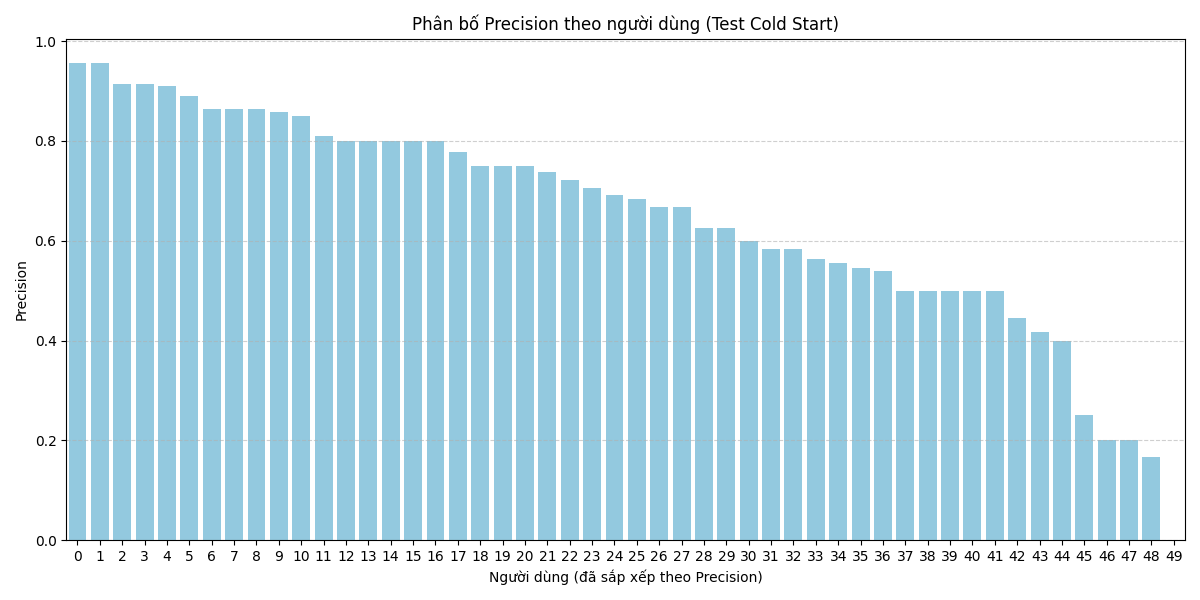
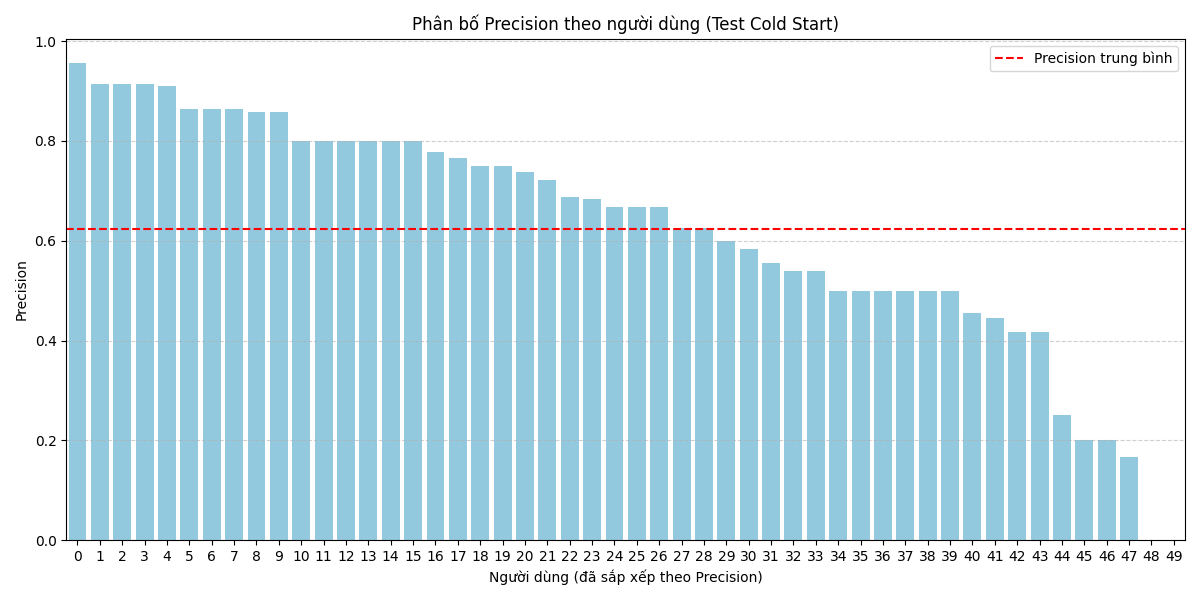
Cap nhat lan cuoi

diff --git a/Test_Cold.py b/Test_Cold.py
@@ -2,11 +2,11 @@ import pandas as pd
 import numpy as np
 import pickle
 from lightfm import LightFM
-from scipy.sparse import load_npz
+from scipy.sparse import load_npz, csr_matrix
 import matplotlib.pyplot as plt
 import seaborn as sns
 
-# ==== Load mô hình và dữ liệu ====
+# ==== Load mô hình và dữ liệu đã huấn luyện ====
 model = pickle.load(open("MODEL/lightfm_model.pkl", "rb"))
 dataset = pickle.load(open("MODEL/lightfm_dataset.pkl", "rb"))
 user_features = load_npz("MODEL/user_features_matrix.npz")
@@ -14,8 +14,9 @@ item_features = load_npz("MODEL/item_features_matrix.npz")
 
 test_df = pd.read_csv("Chia_Data/data_test_cold.csv")
 
-# ==== Tiền xử lý ====
+# ==== Tiền xử lý dữ liệu test ====
 def age_group(age):
+    # Nhóm tuổi thành các mốc
     if age <= 25: return "18-25"
     elif age <= 35: return "26-35"
     elif age <= 45: return "36-45"
@@ -25,33 +26,46 @@ def age_group(age):
 test_df["Age_Group"] = test_df["Age"].apply(age_group)
 test_df.rename(columns={"Customer_ID": "user_id_raw", "Item_Purchased": "item_id_raw"}, inplace=True)
 
-# ==== Mapping từ dataset ====
-user_id_map, _, item_id_map, _ = dataset.mapping()
-inner_to_item_raw = {v: k for k, v in item_id_map.items()}
+# ==== Mapping từ dataset để ánh xạ index nội bộ ====
+_, user_feat_map, item_id_map, _ = dataset.mapping()
+inner_to_item_raw = {v: k for k, v in item_id_map.items()}  # mapping ngược từ index về item raw ID
 
-# ==== Tính precision và lưu kết quả ====
+# ==== Tạo vector đặc trưng người dùng tạm thời cho cold user ====
+def build_temp_user_vector(age, gender):
+    age_grp = age_group(age)
+    features = [f"Gender={gender}", f"Age_Group={age_grp}"]
+    feature_index_map = user_feat_map
+    indices = [feature_index_map[f] for f in features if f in feature_index_map]
+    values = [1.0] * len(indices)
+    return csr_matrix((values, ([0]*len(indices), indices)), shape=(1, user_features.shape[1]))
+
+# ==== Đánh giá precision trên từng cold user ====
 results = []
 
+item_id_to_index = {v: k for k, v in item_id_map.items()}  # mapping ngược cho item
+
 for user_raw_id in test_df["user_id_raw"].unique():
-    if user_raw_id not in user_id_map:
-        continue
+    user_df = test_df[test_df["user_id_raw"] == user_raw_id]
 
-    uid = user_id_map[user_raw_id]
+    # Tạo vector đặc trưng người dùng cold
+    age = user_df["Age"].iloc[0]
+    gender = user_df["Gender"].iloc[0]
+    user_vec = build_temp_user_vector(age, gender)
 
-    # Các sản phẩm đã mua
-    true_items_raw = test_df[test_df["user_id_raw"] == user_raw_id]["item_id_raw"].unique()
+    # Danh sách item thực tế người đó đã mua
+    true_items_raw = user_df["item_id_raw"].unique()
     true_items_inner = [item_id_map[i] for i in true_items_raw if i in item_id_map]
     if not true_items_inner:
         continue
 
-    # Dự đoán tất cả item
-    scores = model.predict(uid, np.arange(len(item_id_map)), user_features=user_features, item_features=item_features)
+    # Dự đoán điểm cho toàn bộ item
+    scores = model.predict(0, np.arange(len(item_id_map)), user_features=user_vec, item_features=item_features)
 
-    # Top-N sản phẩm gợi ý theo số sản phẩm thực tế
+    # Chọn top-N item có điểm cao nhất, với N = số item thực tế
     top_items_inner = np.argsort(-scores)[:len(true_items_inner)]
     top_items_raw = [inner_to_item_raw[i] for i in top_items_inner]
 
-    # So sánh
+    # So sánh và tính precision
     correct_items = set(top_items_raw) & set(true_items_raw)
     num_correct = len(correct_items)
     precision = num_correct / len(true_items_inner)
@@ -67,23 +81,24 @@ for user_raw_id in test_df["user_id_raw"].unique():
         "SP Đúng": ", ".join(correct_items)
     })
 
-# ==== Xuất ra CSV đẹp ====
+# ==== Xuất kết quả thành CSV ====
 results_df = pd.DataFrame(results)
 results_df.to_csv("Ket_Qua_Test_Cold.csv", index=False, encoding="utf-8-sig")
 
 print("✅ Đã lưu file 'Ket_Qua_Test_Cold.csv' với chi tiết sản phẩm đúng.")
 print("🎯 Precision trung bình toàn bộ người dùng:", results_df["Precision"].mean())
 
-# ==== Vẽ Biểu Đồ ====
-# Sắp xếp theo precision
+# ==== Vẽ biểu đồ phân bố Precision ====
 results_df_sorted = results_df.sort_values(by="Precision", ascending=False).reset_index(drop=True)
 
 plt.figure(figsize=(12, 6))
 sns.barplot(x=results_df_sorted.index, y=results_df_sorted["Precision"], color="skyblue")
+plt.axhline(results_df_sorted["Precision"].mean(), color="red", linestyle="--", label="Precision trung bình")
 plt.title("Phân bố Precision theo người dùng (Test Cold Start)")
 plt.xlabel("Người dùng (đã sắp xếp theo Precision)")
 plt.ylabel("Precision")
 plt.grid(axis='y', linestyle='--', alpha=0.6)
+plt.legend()
 plt.tight_layout()
 plt.savefig("Bieu_Do_Test_Cold.png")
 print("✅ Đã lưu biểu đồ tại Bieu_Do_Test_Cold.png")

diff --git a/Giao_Dien.py b/Giao_Dien.py
@@ -83,6 +83,7 @@ def most_rated_products(top_n=5):
 
 # === Gợi ý cho người dùng mới, ƯU TIÊN CHÍNH XÁC CATEGORY ===
 def recommend_for_new_user(age, gender, category, season, top_n):
+    # 👉 Hàm nhóm tuổi theo khoảng, để ánh xạ vào đặc trưng đã huấn luyện
     def age_group(age):
         if age <= 25:
             return "18-25"
@@ -95,43 +96,59 @@ def recommend_for_new_user(age, gender, category, season, top_n):
         else:
             return "60+"
 
+    # ✅ Gán nhóm tuổi tương ứng
     age_group_val = age_group(age)
+
+    # ✅ Tạo danh sách đặc trưng người dùng dựa trên thông tin nhập
+    # Các đặc trưng này cần đã được huấn luyện cùng mô hình
     feature_names = [f"Gender={gender}", f"Age_Group={age_group_val}"]
+
+    # ✅ Lấy ánh xạ tên đặc trưng → chỉ số trong ma trận đặc trưng người dùng
     feature_index_map = dataset._user_feature_mapping
 
-    indices = []
-    values = []
-    for feat in feature_names:
-        if feat in feature_index_map:
-            indices.append(feature_index_map[feat])
-            values.append(1.0)
+    # ✅ Lấy chỉ số của các đặc trưng hiện có trong ánh xạ
+    indices = [feature_index_map[feat] for feat in feature_names if feat in feature_index_map]
+    values = [1.0] * len(indices)  # Gán giá trị = 1.0 vì đặc trưng đang có mặt
 
+    # ✅ Tạo vector đặc trưng sparse cho người dùng mới (1 hàng, nhiều đặc trưng)
     new_user_vec = csr_matrix((values, ([0]*len(indices), indices)),
                               shape=(1, user_features.shape[1]))
 
+    # ✅ Lấy danh sách sản phẩm duy nhất từ tập huấn luyện (tránh trùng lặp)
     df_items = df_train.drop_duplicates("Item_Purchased")[["Item_Purchased", "Category", "Season"]]
+
+    # ✅ Lọc các sản phẩm thuộc đúng category người dùng đã chọn
     filtered_items = df_items[df_items["Category"] == category]
 
-    if filtered_items.empty:
-        return f"❌ Không tìm thấy sản phẩm nào trong danh mục '{category}'", ""
-
+    # ✅ Ánh xạ từ mã sản phẩm gốc → chỉ số item trong mô hình
     item_id_to_index = {v: k for k, v in item_id_reverse.items()}
+
+    # ✅ Lấy danh sách chỉ số của các sản phẩm phù hợp
     filtered_indexes = [
         item_id_to_index[item_id]
         for item_id in filtered_items["Item_Purchased"]
         if item_id in item_id_to_index
     ]
 
+    # ⚠ Phòng trường hợp không ánh xạ được item nào (dữ liệu không khớp mô hình)
     if not filtered_indexes:
         return f"❌ Không tìm thấy mã sản phẩm phù hợp với mô hình.", ""
 
-    scores = model.predict(0, filtered_indexes,
-                           user_features=new_user_vec,
-                           item_features=item_features)
+    # ✅ Dự đoán điểm cho các sản phẩm dựa trên đặc trưng người dùng mới
+    scores = model.predict(
+        0,                         # Gán chỉ số người dùng tạm là 0
+        filtered_indexes,          # Danh sách chỉ số sản phẩm
+        user_features=new_user_vec,
+        item_features=item_features
+    )
 
+    # ✅ Sắp xếp điểm giảm dần và lấy top N sản phẩm có điểm cao nhất
     top_indices = np.argsort(-scores)[:top_n]
+
+    # ✅ Lấy lại danh sách mã sản phẩm từ chỉ số
     top_items = [item_id_reverse[filtered_indexes[i]] for i in top_indices]
 
+    # ✅ Trả kết quả dạng hiển thị hộp sản phẩm (tùy biến hàm `render_item_boxes`)
     return render_item_boxes(top_items)
 
 # === Giao diện Gradio với Tabs ===

diff --git a/Code_Train.py b/Code_Train.py
@@ -43,12 +43,15 @@ for df in [df_all, df_train, df_val]:
 
 # ===== 5. Khởi tạo Dataset và fit =====
 dataset = Dataset()
+#Tập Hợp đặc trưng người dùng
 user_features_list = list(f"Gender={g}" for g in df_all["Gender"].unique()) + \
                      list(f"Age_Group={a}" for a in df_all["Age_Group"].unique())
 
+#Tập hợp đặc trưng sản phẩm
 item_features_list = list(f"Category={c}" for c in df_all["Category"].unique()) + \
                      list(f"Season={s}" for s in df_all["Season"].unique())
 
+#Chuẩn hóa để chuẩn bị tạo thành ma trận
 dataset.fit(
     users=df_all["user_id_raw"],
     items=df_all["item_id_raw"],
@@ -57,6 +60,8 @@ dataset.fit(
 )
 
 # ===== 6. Xây dựng user/item features =====
+#Tổng hợp tất cả các giá trị có trong data của mỗi đặc trưng
+
 def build_user_features(df):
     rows = df.drop_duplicates("user_id_raw")
     features = [
@@ -73,10 +78,11 @@ def build_item_features(df):
     ]
     return dataset.build_item_features(features)
 
+#Xây ma trận từ đặc trưng
 user_features_matrix = build_user_features(df_all)
 item_features_matrix = build_item_features(df_all)
 
-# ===== 7. Tạo ma trận interactions =====
+# ===== 7. Tạo ma trận interactions ===== ma trận tương tác
 def build_interactions(df):
     return dataset.build_interactions([
         (row["user_id_raw"], row["item_id_raw"], row["Review_Rating"])
@@ -87,20 +93,25 @@ interactions_train = build_interactions(df_train)
 interactions_val = build_interactions(df_val)
 
 # ===== 8. Huấn luyện mô hình =====
+
+#Tạo mô hình LightFM
 model = LightFM(
-    loss="warp",
-    no_components=50,
-    learning_rate=0.01,
-    item_alpha=1e-6,
-    user_alpha=1e-6
+    loss="warp", #Hàm mất mát để học xếp hạng ,Ưu tiên tính điểm cao hơn cho người dùng đã tương tác WARP = Weighted Approximate-Rank Pairwise
+    no_components=50, #Số chiều của vector ẩn
+    learning_rate=0.01, #Tốc độ học
+    item_alpha=1e-6, #Chúng là hệ số regularization (chuẩn hoá) để Dùng để chống overfitting trong quá trình huấn luyện mô hình ,Ngăn vector sản phẩm học quá “mạnh” hoặc “lớn”.
+    user_alpha=1e-6 #Chúng là hệ số regularization (chuẩn hoá) để Dùng để chống overfitting trong quá trình huấn luyện mô hình, Ngăn vector người dùng học quá “kỹ” hoặc “phức tạp”.
+    # WARP cho mô hình lý do để học tốt,
+    # còn item_alpha và user_alpha giúp mô hình học an toàn.
 )
 
+#Huấn Luyện Mô hình
 model.fit(
     interactions=interactions_train,
     user_features=user_features_matrix,
     item_features=item_features_matrix,
-    epochs=60,
-    num_threads=4
+    epochs=60, #Số vòng lặp học
+    num_threads=4 #Số luồng xử lý đồng thời
 )
 
 # ===== 9. Đánh giá trên tập validation =====
